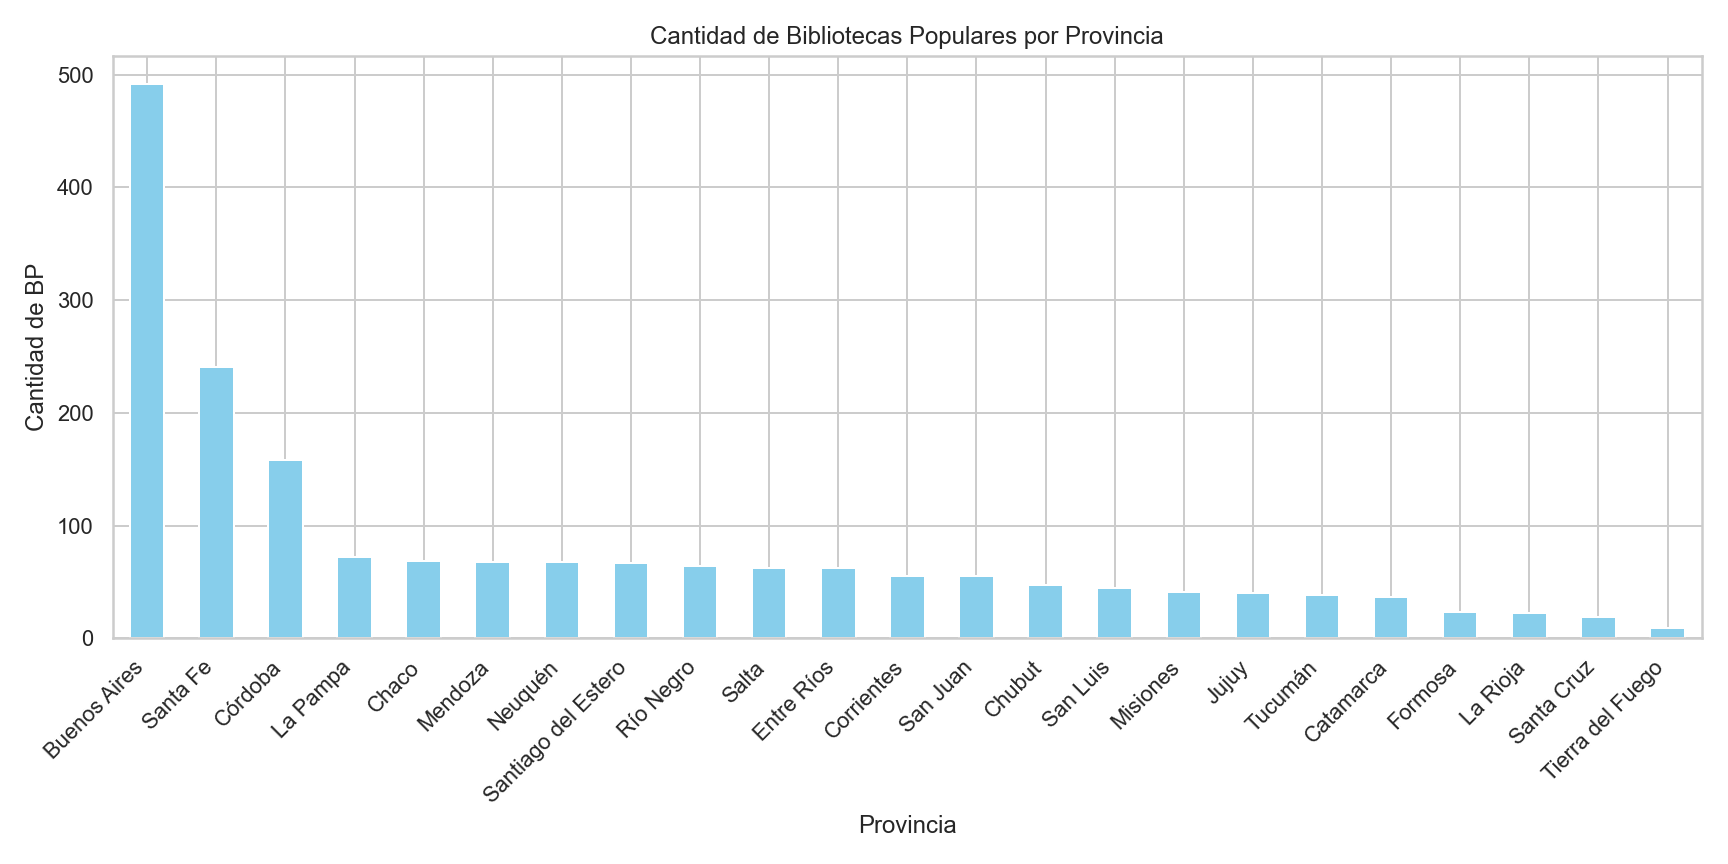
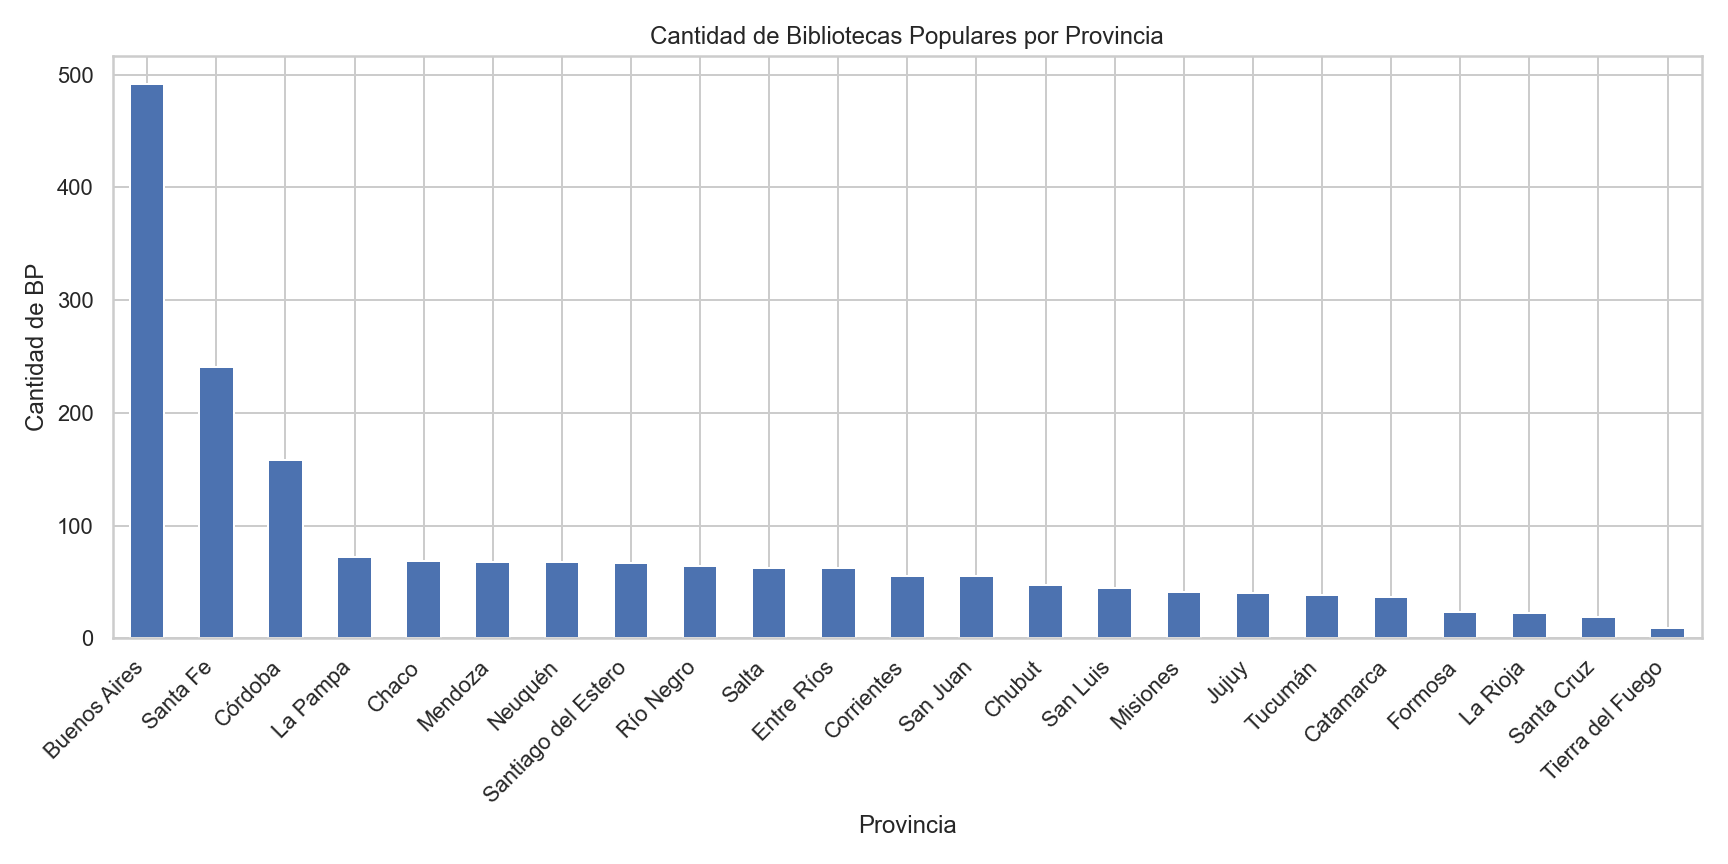
Actualizado el script graficos.py, genera bien los graficos

Changed region(s): [[0.0625, 0.0938, 0.9688, 0.75]]

diff --git a/scripts/graficos.py b/scripts/graficos.py
@@ -5,84 +5,133 @@ Barrios Bruno
 Mur Santiago
 Operti Bruno
                
-Generar Gráficos de relación de tablas.
+Generar gráficos de relación de tablas.
 '''
-
 
 import pandas as pd
 import matplotlib.pyplot as plt
+import seaborn as sns
 
-# ---------------- CONFIGURACIÓN ---------------- #
-carpeta = 'C:/Users/santi/Documents/GitHub/TP-1-LDD/TablasModelo/'
+# Configuración general
+sns.set(style="whitegrid")
+plt.rcParams["figure.figsize"] = (12, 6)
 
-# Cargar datos limpios
-bp = pd.read_csv(carpeta + 'bibliotecas_populares_limpio.csv')
-ee = pd.read_csv(carpeta + 'establecimientos_educativos_limpia.csv')
-deptos = pd.read_csv(carpeta + 'departamentosNuevo.csv')
-niveles = pd.read_csv(carpeta + 'niveles_establecimientos_comunes_3FN.csv')
-poblacion = pd.read_csv(carpeta + 'nivel_educativo_por_departamento_3fn.csv')
+# CARGA DE DATOS
+# -----------------------------
+carpeta_modelo = 'ruta/carpeta_TablasModelo'       # Cargar ruta correspondiente a la ubicacion de la carpeta TablasModelo (finalizando con /)
+carpeta_consultas = 'ruta/carpeta_consultasSQL'    # Cargar ruta correspondiente a la ubicacion de la carpeta consultasSQL (finalizando con /)
+df_biblios = pd.read_csv(carpeta_modelo + "bibliotecas_populares_limpio.csv")
+df_deptos = pd.read_csv(carpeta_modelo + "departamentosNUEVO.csv")
+df_ee = pd.read_csv(carpeta_modelo + "establecimientos_educativos_limpia.csv")
+df_niveles_por_dpto = pd.read_csv(carpeta_modelo + "nivel_educativo_por_departamento_3fn.csv")
+df_niveles_ee = pd.read_csv(carpeta_modelo + "niveles_establecimientos_comunes_3FN.csv")
+df_consulta_i = pd.read_csv(carpeta_consultas + "consulta_i.csv")
+# -----------------------------
+# i) Cantidad de BP por provincia (ordenado de forma decreciente)
+# -----------------------------
 
-# ---------------- i) Cantidad de BP por provincia ---------------- #
-bp_merged = bp.merge(deptos, on='id_depto')
-bp_count = bp_merged.groupby('provincia').size().sort_values(ascending=False)
+# Join BP con departamentos para obtener provincia
+df_bp_prov = df_biblios.merge(df_deptos, on="id_depto")
+bp_por_provincia = df_bp_prov.groupby("provincia").size().sort_values(ascending=False)
 
-plt.figure(figsize=(12, 6))
-bp_count.plot(kind='bar')
-plt.title('Cantidad de Bibliotecas Populares por provincia')
-plt.ylabel('Cantidad de BP')
-plt.xlabel('Provincia')
-plt.xticks(rotation=90)
+# Grafico
+plt.figure()
+bp_por_provincia.plot(kind="bar")
+plt.title("Cantidad de Bibliotecas Populares por Provincia")
+plt.ylabel("Cantidad de BP")
+plt.xlabel("Provincia")
+plt.xticks(rotation=45, ha="right")
 plt.tight_layout()
+plt.savefig("bp_por_provincia.png")
 plt.show()
 
-# ---------------- ii) EE por población por nivel educativo ---------------- #
-niveles_merge = niveles.merge(ee[['id_establecimiento', 'id_depto']], on='id_establecimiento')
-niveles_dept = niveles_merge.groupby('id_depto')[['jardin_infante', 'primario', 'secundario']].sum().reset_index()
-niveles_dept = niveles_dept.merge(poblacion[['id_depto', 'jardin_infante', 'primario', 'secundario']],
-                                  on='id_depto')
+# -----------------------------
+# ii) Cantidad de EE por depto vs población (por nivel y grupo etario)
+# -----------------------------
 
-plt.figure(figsize=(10, 6))
-plt.scatter(niveles_dept['jardin_infante_y'], niveles_dept['jardin_infante_x'], color='orange', label='Jardín')
-plt.scatter(niveles_dept['primario_y'], niveles_dept['primario_x'], color='blue', label='Primario')
-plt.scatter(niveles_dept['secundario_y'], niveles_dept['secundario_x'], color='green', label='Secundario')
-plt.title('Cantidad de EE vs Población por nivel educativo')
-plt.xlabel('Población por nivel')
-plt.ylabel('Cantidad de EE')
-plt.legend()
-plt.grid(True)
+# Creación del gráfico en un solo scatter plot
+fig, ax = plt.subplots(figsize=(12, 7))
+
+# Agrego un scatter plot por cada nivel educativo (con color diferente)
+ax.scatter(df_consulta_i['poblacion_jardin'], df_consulta_i['jardines'], color='orange', label='Jardín (0-5 años)', alpha=0.7)
+ax.scatter(df_consulta_i['poblacion_primaria'], df_consulta_i['primarias'], color='blue', label='Primaria (6-12 años)', alpha=0.7)
+ax.scatter(df_consulta_i['poblacion_secundaria'], df_consulta_i['secundarios'], color='green', label='Secundaria (13-17 años)', alpha=0.7)
+
+# Títulos y etiquetas
+ax.set_title('Cantidad de EE vs Población por Nivel Educativo y Grupo Etario')
+ax.set_xlabel('Población por Nivel Educativo')
+ax.set_ylabel('Cantidad de Establecimientos Educativos')
+
+# Leyenda y estética
+ax.legend()
+ax.grid(True, linestyle='--', alpha=0.5)
 plt.tight_layout()
+plt.savefig("EE_vs_depto_y_poblacion.png")
 plt.show()
 
-# ---------------- iii) Boxplot de EE comunes por provincia ---------------- #
-ee_comunes = ee[ee['modalidad_comun'] == 1]
-ee_count = ee_comunes.groupby(['provincia', 'id_depto']).size().reset_index(name='cant_ee')
-orden_provincias = ee_count.groupby('provincia')['cant_ee'].median().sort_values().index.tolist()
 
-plt.figure(figsize=(12, 6))
-ee_count['provincia'] = pd.Categorical(ee_count['provincia'], categories=orden_provincias, ordered=True)
-ee_count.boxplot(by='provincia', column='cant_ee', grid=False, rot=90)
-plt.title('Distribución de EE comunes por provincia')
-plt.suptitle('')
-plt.ylabel('Cantidad de EE comunes')
+# -----------------------------
+# iii) Boxplot por provincia de cantidad de EE por depto
+# -----------------------------
+
+# Agrupar EE por depto
+ee_por_dpto = df_ee.groupby("id_depto").size().reset_index(name="cant_ee")
+
+# Merge con departamentos
+ee_con_prov = ee_por_dpto.merge(df_deptos, on="id_depto")
+
+# Ordenar provincias por mediana
+orden_provincias = ee_con_prov.groupby("provincia")["cant_ee"].median().sort_values().index
+
+# Grafico
+plt.figure(figsize=(14, 6))
+sns.boxplot(
+    data=ee_con_prov,
+    x="provincia",
+    y="cant_ee",
+    order=orden_provincias,
+    palette="pastel"
+)
+plt.xticks(rotation=45, ha="right")
+plt.title("Distribución de EE en cada Provincia")
+plt.ylabel("Cantidad de EE")
+plt.xlabel("Provincia")
 plt.tight_layout()
+plt.savefig("boxplot_ee_por_provincia.png")
 plt.show()
 
-# ---------------- iv) Relación entre BP y EE por cada 1000 habitantes ---------------- #
-bp_count = bp.groupby('id_depto').size().reset_index(name='cant_bp')
-ee_count_total = ee_comunes.groupby('id_depto').size().reset_index(name='cant_ee')
+# -----------------------------
+# iv) Relación BP y EE cada mil habitantes por departamento
+# -----------------------------
 
-relacion = poblacion[['id_depto', 'poblacion_total']].merge(
-    bp_count, on='id_depto', how='left').merge(
-    ee_count_total, on='id_depto', how='left').fillna(0)
+# Sumamos la población por depto como suma total de alumnos
+poblacion_depto = df_niveles_por_dpto.groupby("id_depto")["cantidad"].sum().reset_index(name="poblacion")
 
-relacion['bp_1000'] = relacion['cant_bp'] * 1000 / relacion['poblacion_total']
-relacion['ee_1000'] = relacion['cant_ee'] * 1000 / relacion['poblacion_total']
+# BP por depto
+bp_por_dpto = df_biblios.groupby("id_depto").size().reset_index(name="cant_bp")
 
-plt.figure(figsize=(8, 6))
-plt.scatter(relacion['bp_1000'], relacion['ee_1000'], alpha=0.7)
-plt.xlabel('BP cada 1000 habitantes')
-plt.ylabel('EE comunes cada 1000 habitantes')
-plt.title('Relación entre BP y EE cada 1000 habitantes')
-plt.grid(True)
+# EE por depto
+ee_por_dpto = df_ee.groupby("id_depto").size().reset_index(name="cant_ee")
+
+# Merge
+df_rel = poblacion_depto.merge(bp_por_dpto, on="id_depto", how="left")\
+                        .merge(ee_por_dpto, on="id_depto", how="left")\
+                        .fillna(0)
+
+# Calculamos datos por mil habitantes
+df_rel["bp_x_mil"] = df_rel["cant_bp"] * 1000 / df_rel["poblacion"]
+df_rel["ee_x_mil"] = df_rel["cant_ee"] * 1000 / df_rel["poblacion"]
+
+# Grafico
+plt.figure()
+sns.scatterplot(
+    data=df_rel,
+    x="bp_x_mil",
+    y="ee_x_mil"
+)
+plt.title("Relación entre BP y EE cada mil habitantes por Departamento")
+plt.xlabel("BP cada mil habitantes")
+plt.ylabel("EE cada mil habitantes")
 plt.tight_layout()
+plt.savefig("bp_vs_ee_por_mil_hab.png")
 plt.show()
